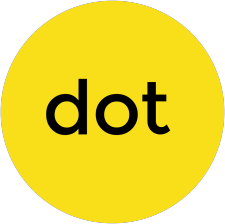
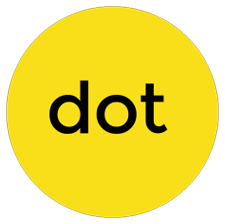
Center Vertical images on Horizontal view

Changed region(s): [[0.0, 0.0, 1.0, 1.0], [0.1867, 0.3438, 0.7778, 0.625]]

diff --git a/css/main.css b/css/main.css
@@ -53,37 +53,43 @@ section.container {
 	position: relative;
 	z-index: 99;
 }
-.container .row,
-.container .row .card {
+section.container .row,
+section.container .row .card {
 	margin-bottom: 0;
 	padding-bottom: 0;
 }
-.card .card-reveal .card-title i.fa,
-.card .card-content .card-title i.fa {
+section .card .card-reveal .card-title i.fa,
+section .card .card-content .card-title i.fa {
 	line-height: unset;
 	font-size: 1.2rem;
 }
-.card .card-content .socials {
+section .card .card-content .socials {
 	text-align: center;
 	margin-top: 1rem;
 }
-.card .card-content .socials i {
+section .card .card-content .socials i {
 	font-size: 1.5rem;
 	padding: 1rem;
 }
-.card {
+section .card {
 	margin-top: 2rem;
 }
-.card .card-action .chip {
+section .card .card-action .chip {
 	background-color: #f0f0f0;
 }
-.card .card-action .chip a {
+section .card .card-action .chip a {
 	margin: 0 0.5rem !important;
 }
-.card .card-action .chip a i {
+section .card .card-action .chip a i {
 	margin-right: 0.5rem;
 }
-
+section .card.horizontal .card-image {
+	border-right: 1px solid rgba(160,160,160,0.2);
+	max-width: 30%;
+}
+section .card.horizontal .card-image img {
+	padding: 10% 0;
+}
 
 footer {
 	background-image: none;

diff --git a/_includes/events3.html b/_includes/events3.html
@@ -1,7 +1,7 @@
 {% for event in site.data.events %}
     <div class="col s12 m8 offset-m2">
         <div class="card horizontal">
-            <div class="card-image" style="border-right: 1px solid rgba(160,160,160,0.2); max-width: 30%;">
+            <div class="card-image">
                 <img src="images/{{ event.image }}">
             </div>
             <div class="card-stacked">
